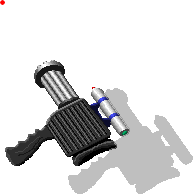
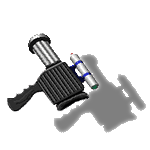
machine gun assets

diff --git a/script.js b/script.js
@@ -39,7 +39,8 @@ const STAMP_CLICK = 'assets/stamp click.png';
 
 // Add machine gun tool constants
 const MACHINE_GUN_IDLE = 'assets/machine gun idle.png';
-const MACHINE_GUN_CLICK = 'assets/machine gun click.png';
+const MACHINE_GUN_CLICK = 'assets/machine gun click1.png';
+const MACHINE_GUN_CLICK2 = 'assets/machine gun click2.png';
 
 // Glass break damage system
 const GLASS_BREAK_FRAME_WIDTH = 150;
@@ -401,12 +402,30 @@ document.addEventListener('DOMContentLoaded', function() {
             this.classList.add('active');
             currentTool = this.dataset.tool;
             
-            // Stop any ongoing machine gun spray when switching tools
+            // Stop any ongoing spraying when switching tools
             if (isMachineGunSpraying) {
                 isMachineGunSpraying = false;
                 if (machineGunSprayInterval) {
                     clearInterval(machineGunSprayInterval);
                     machineGunSprayInterval = null;
+                }
+                if (machineGunImageInterval) {
+                    clearInterval(machineGunImageInterval);
+                    machineGunImageInterval = null;
+                }
+            }
+            if (isHammerSpraying) {
+                isHammerSpraying = false;
+                if (hammerSprayInterval) {
+                    clearInterval(hammerSprayInterval);
+                    hammerSprayInterval = null;
+                }
+            }
+            if (isStampSpraying) {
+                isStampSpraying = false;
+                if (stampSprayInterval) {
+                    clearInterval(stampSprayInterval);
+                    stampSprayInterval = null;
                 }
             }
             
@@ -449,7 +468,14 @@ document.addEventListener('DOMContentLoaded', function() {
     // Add machine gun spraying variables
     let isMachineGunSpraying = false;
     let machineGunSprayInterval = null;
+    let machineGunImageInterval = null;
     let sprayX = 0, sprayY = 0; // Track current mouse position for spraying
+    
+    // Add hammer and stamp spraying variables
+    let isHammerSpraying = false;
+    let isStampSpraying = false;
+    let hammerSprayInterval = null;
+    let stampSprayInterval = null;
 
     desktop.addEventListener('mousemove', function(e) {
         if (currentTool === 'hammer' && customCursor.style.display === 'block') {
@@ -460,6 +486,9 @@ document.addEventListener('DOMContentLoaded', function() {
             customCursor.style.top = (e.clientY - offsetY) + 'px';
             lastCursorX = e.clientX;
             lastCursorY = e.clientY;
+            // Update spray position
+            sprayX = e.clientX;
+            sprayY = e.clientY;
         } else if (currentTool === 'stamp' && customCursor.style.display === 'block') {
             // Offset for stamp cursor 
             const offsetX = 48; 
@@ -468,6 +497,9 @@ document.addEventListener('DOMContentLoaded', function() {
             customCursor.style.top = (e.clientY - offsetY) + 'px';
             lastCursorX = e.clientX;
             lastCursorY = e.clientY;
+            // Update spray position
+            sprayX = e.clientX;
+            sprayY = e.clientY;
         } else if (currentTool === 'machine-gun' && customCursor.style.display === 'block') {
             // Offset for machine gun cursor
             const offsetX = 60;
@@ -500,26 +532,104 @@ document.addEventListener('DOMContentLoaded', function() {
     desktop.addEventListener('mousedown', function(e) {
         if (currentTool === 'hammer') {
             customCursor.innerHTML = `<img src="${HAMMER_CLICK}" style="width:auto;height:auto;display:block;">`;
+            // Start spraying hammer hits at current mouse position
+            isHammerSpraying = true;
+            sprayX = e.clientX;
+            sprayY = e.clientY;
+            hammerSprayInterval = setInterval(() => {
+                if (isHammerSpraying) {
+                    // Switch to click image when creating effect
+                    const hammerImg = customCursor.querySelector('img');
+                    if (hammerImg) {
+                        hammerImg.src = HAMMER_CLICK;
+                    }
+                    
+                    hammerDestroy(sprayX, sprayY);
+                    
+                    // Switch back to idle after a short delay
+                    setTimeout(() => {
+                        if (hammerImg && isHammerSpraying) {
+                            hammerImg.src = HAMMER_IDLE;
+                        }
+                    }, 50);
+                }
+            }, 150); // Spray a hammer hit every 150ms
         } else if (currentTool === 'stamp') {
             customCursor.innerHTML = `<img src="${STAMP_CLICK}" style="width:auto;height:auto;display:block;">`;
+            // Start spraying stamp hits at current mouse position
+            isStampSpraying = true;
+            sprayX = e.clientX;
+            sprayY = e.clientY;
+            stampSprayInterval = setInterval(() => {
+                if (isStampSpraying) {
+                    // Switch to click image when creating effect
+                    const stampImg = customCursor.querySelector('img');
+                    if (stampImg) {
+                        stampImg.src = STAMP_CLICK;
+                    }
+                    
+                    stampDestroy(sprayX, sprayY);
+                    
+                    // Switch back to idle after a short delay
+                    setTimeout(() => {
+                        if (stampImg && isStampSpraying) {
+                            stampImg.src = STAMP_IDLE;
+                        }
+                    }, 50);
+                }
+            }, 100); // Spray a stamp hit every 100ms
         } else if (currentTool === 'machine-gun') {
             customCursor.innerHTML = `<img src="${MACHINE_GUN_CLICK}" style="width:auto;height:auto;display:block;">`;
             // Start spraying bullets at current mouse position
             isMachineGunSpraying = true;
             sprayX = e.clientX;
             sprayY = e.clientY;
+            console.log('Started machine gun spraying with image:', MACHINE_GUN_CLICK);
             machineGunSprayInterval = setInterval(() => {
                 if (isMachineGunSpraying) {
                     machineGunDestroy(sprayX, sprayY);
                 }
             }, 100); // Spray a bullet every 100ms
+            
+            // Separate interval for image oscillation (slower)
+            machineGunImageInterval = setInterval(() => {
+                if (isMachineGunSpraying) {
+                    // Alternate between click1 and click2 images
+                    const machineGunImg = customCursor.querySelector('img');
+                    if (machineGunImg) {
+                        console.log('Switching machine gun image from:', machineGunImg.src);
+                        machineGunImg.src = machineGunImg.src.includes('click1') ? MACHINE_GUN_CLICK2 : MACHINE_GUN_CLICK;
+                        console.log('Switched to:', machineGunImg.src);
+                    }
+                }
+            }, 50); // Switch image every 50ms
         }
     });
     desktop.addEventListener('mouseup', function(e) {
         if (currentTool === 'hammer') {
             customCursor.innerHTML = `<img src="${HAMMER_IDLE}" style="width:auto;height:auto;display:block;">`;
+            // Stop spraying hammer hits
+            isHammerSpraying = false;
+            if (hammerSprayInterval) {
+                clearInterval(hammerSprayInterval);
+                hammerSprayInterval = null;
+            }
+            setTimeout(() => {
+                isHammerSpraying = false;
+                hammerSprayInterval = null;
+            }, 50);
         } else if (currentTool === 'stamp') {
             customCursor.innerHTML = `<img src="${STAMP_IDLE}" style="width:auto;height:auto;display:block;">`;
+            // Stop spraying stamp hits
+            isStampSpraying = false;
+            if (stampSprayInterval) {
+                clearInterval(stampSprayInterval);
+                stampSprayInterval = null;
+            }
+            setTimeout(() => {
+                isStampSpraying = false;
+                stampSprayInterval = null;
+            }, 50);
         } else if (currentTool === 'machine-gun') {
             customCursor.innerHTML = `<img src="${MACHINE_GUN_IDLE}" style="width:auto;height:auto;display:block;">`;
             // Stop spraying bullets
@@ -528,9 +638,14 @@ document.addEventListener('DOMContentLoaded', function() {
                 clearInterval(machineGunSprayInterval);
                 machineGunSprayInterval = null;
             }
+            if (machineGunImageInterval) {
+                clearInterval(machineGunImageInterval);
+                machineGunImageInterval = null;
+            }
             setTimeout(() => {
                 isMachineGunSpraying = false;
                 machineGunSprayInterval = null;
+                machineGunImageInterval = null;
             }, 50);
         }
     });
@@ -541,8 +656,14 @@ document.addEventListener('DOMContentLoaded', function() {
         if (e.target.classList.contains('tool-button') || e.target.closest('.toolbar')) {
             return;
         }
-        // Don't trigger single click for machine gun if we're spraying or if we just stopped spraying
+        // Don't trigger single click if we're spraying or if we just stopped spraying
         if (currentTool === 'machine-gun' && (isMachineGunSpraying || machineGunSprayInterval)) {
+            return;
+        }
+        if (currentTool === 'hammer' && (isHammerSpraying || hammerSprayInterval)) {
+            return;
+        }
+        if (currentTool === 'stamp' && (isStampSpraying || stampSprayInterval)) {
             return;
         }
         
@@ -931,6 +1052,47 @@ document.addEventListener('DOMContentLoaded', function() {
         
         destructionCount = 0;
         gameState = { elementsDestroyed: [], cracks: [], holes: [] };
+        
+        // Deselect all tools
+        currentTool = null;
+        
+        // Stop any ongoing spraying
+        if (isMachineGunSpraying) {
+            isMachineGunSpraying = false;
+            if (machineGunSprayInterval) {
+                clearInterval(machineGunSprayInterval);
+                machineGunSprayInterval = null;
+            }
+            if (machineGunImageInterval) {
+                clearInterval(machineGunImageInterval);
+                machineGunImageInterval = null;
+            }
+        }
+        if (isHammerSpraying) {
+            isHammerSpraying = false;
+            if (hammerSprayInterval) {
+                clearInterval(hammerSprayInterval);
+                hammerSprayInterval = null;
+            }
+        }
+        if (isStampSpraying) {
+            isStampSpraying = false;
+            if (stampSprayInterval) {
+                clearInterval(stampSprayInterval);
+                stampSprayInterval = null;
+            }
+        }
+        
+        // Reset cursor to default
+        setHammerCursorActive(false);
+        setStampCursorActive(false);
+        setMachineGunCursorActive(false);
+        desktop.style.cursor = 'crosshair';
+        
+        // Remove active state from all tool buttons
+        document.querySelectorAll('.tool-button').forEach(btn => {
+            btn.classList.remove('active');
+        });
     }
 
     // Add shake animation
@@ -1237,7 +1399,7 @@ document.addEventListener('DOMContentLoaded', function() {
         windowDiv.style.zIndex = '100';
         windowDiv.innerHTML = `
             <div class="win95-title-bar">
-                <span>README.txt - Key Bindings</span>
+                <span>README.txt</span>
                 <div class="win95-controls">
                     <button class="win95-btn" onclick="minimizeWindow('${windowId}')">_</button>
                     <button class="win95-btn" onclick="maximizeWindow('${windowId}')">□</button>
@@ -1245,7 +1407,7 @@ document.addEventListener('DOMContentLoaded', function() {
                 </div>
             </div>
             <div class="win95-window-body" style="height: calc(100% - 22px); overflow: auto; padding: 10px; font-family: monospace; font-size: 14px;">
-                <b>Desktop Destroyer Key Bindings</b><br><br>
+                <b>Key Bindings</b><br><br>
                 <table style="width:100%; border-collapse: collapse;">
                   <tr><th style='text-align:left;'>Key</th><th style='text-align:left;'>Function</th></tr>
                   <tr><td>Mouse</td><td>Fire weapon</td></tr>
